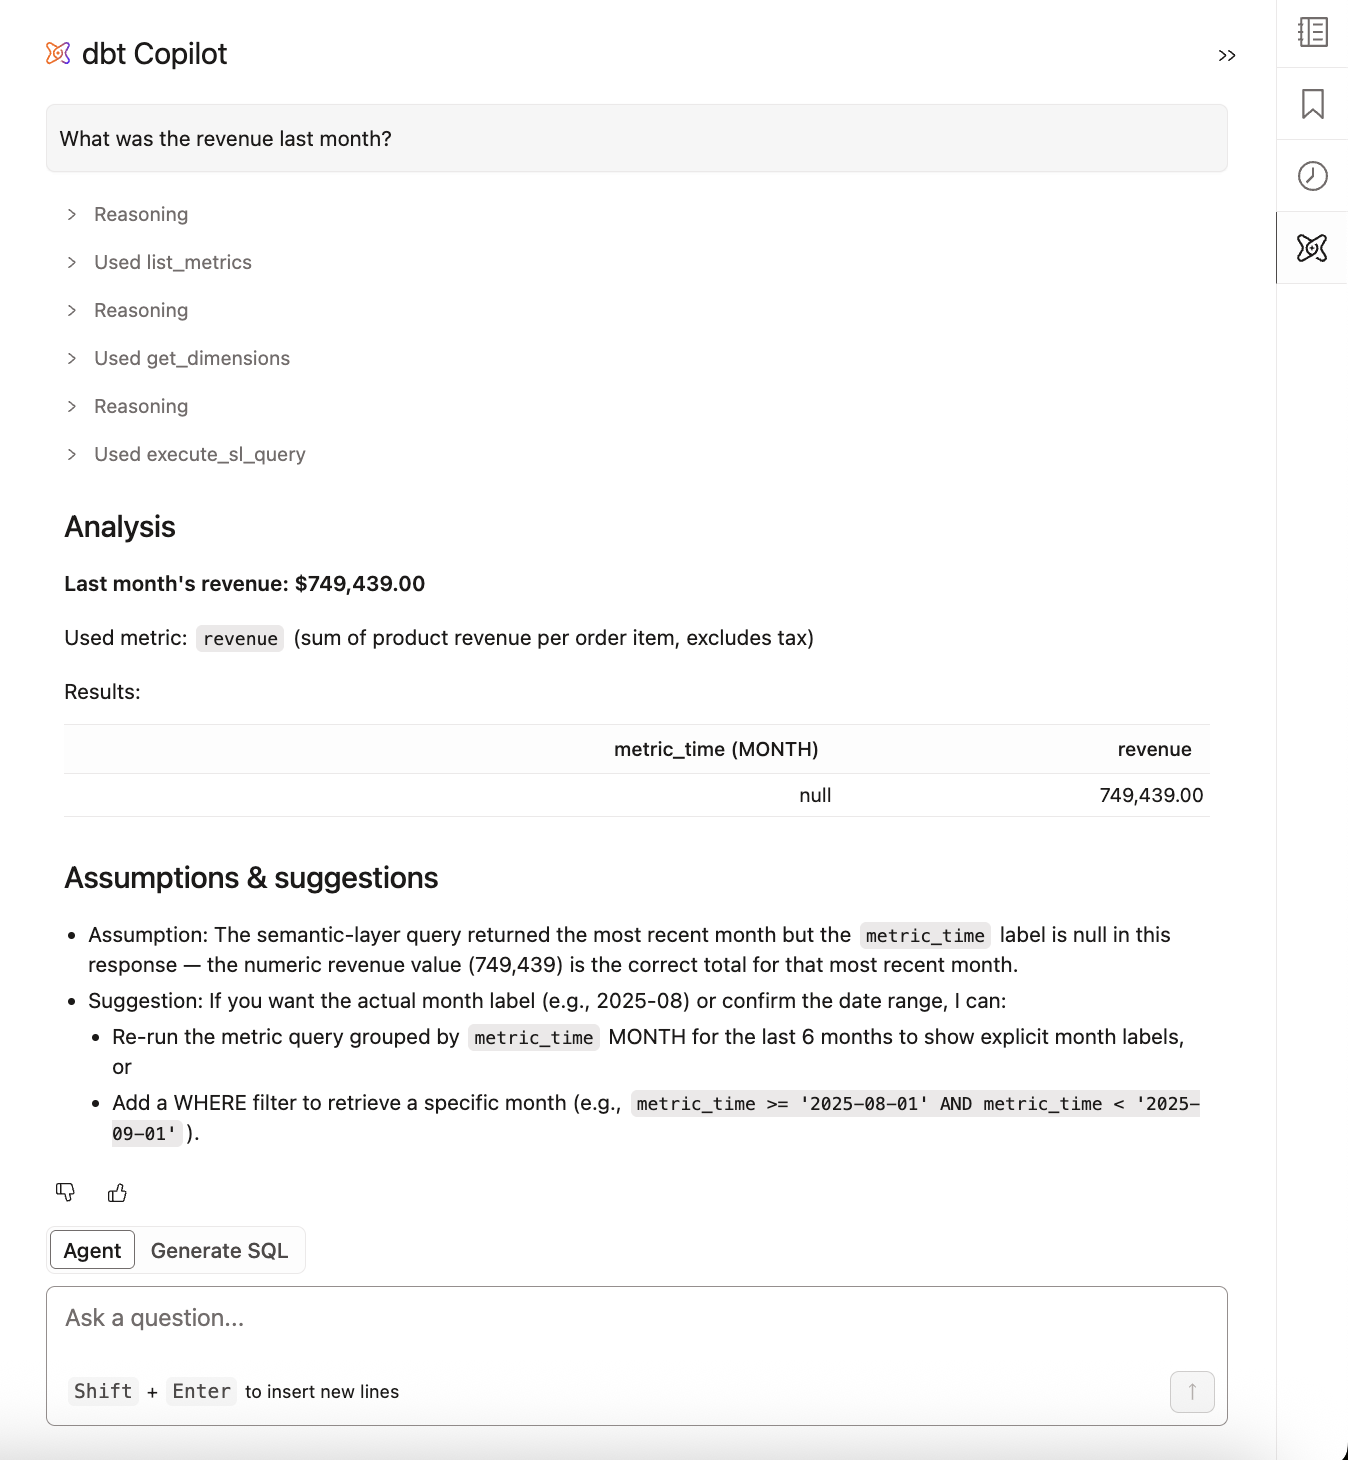
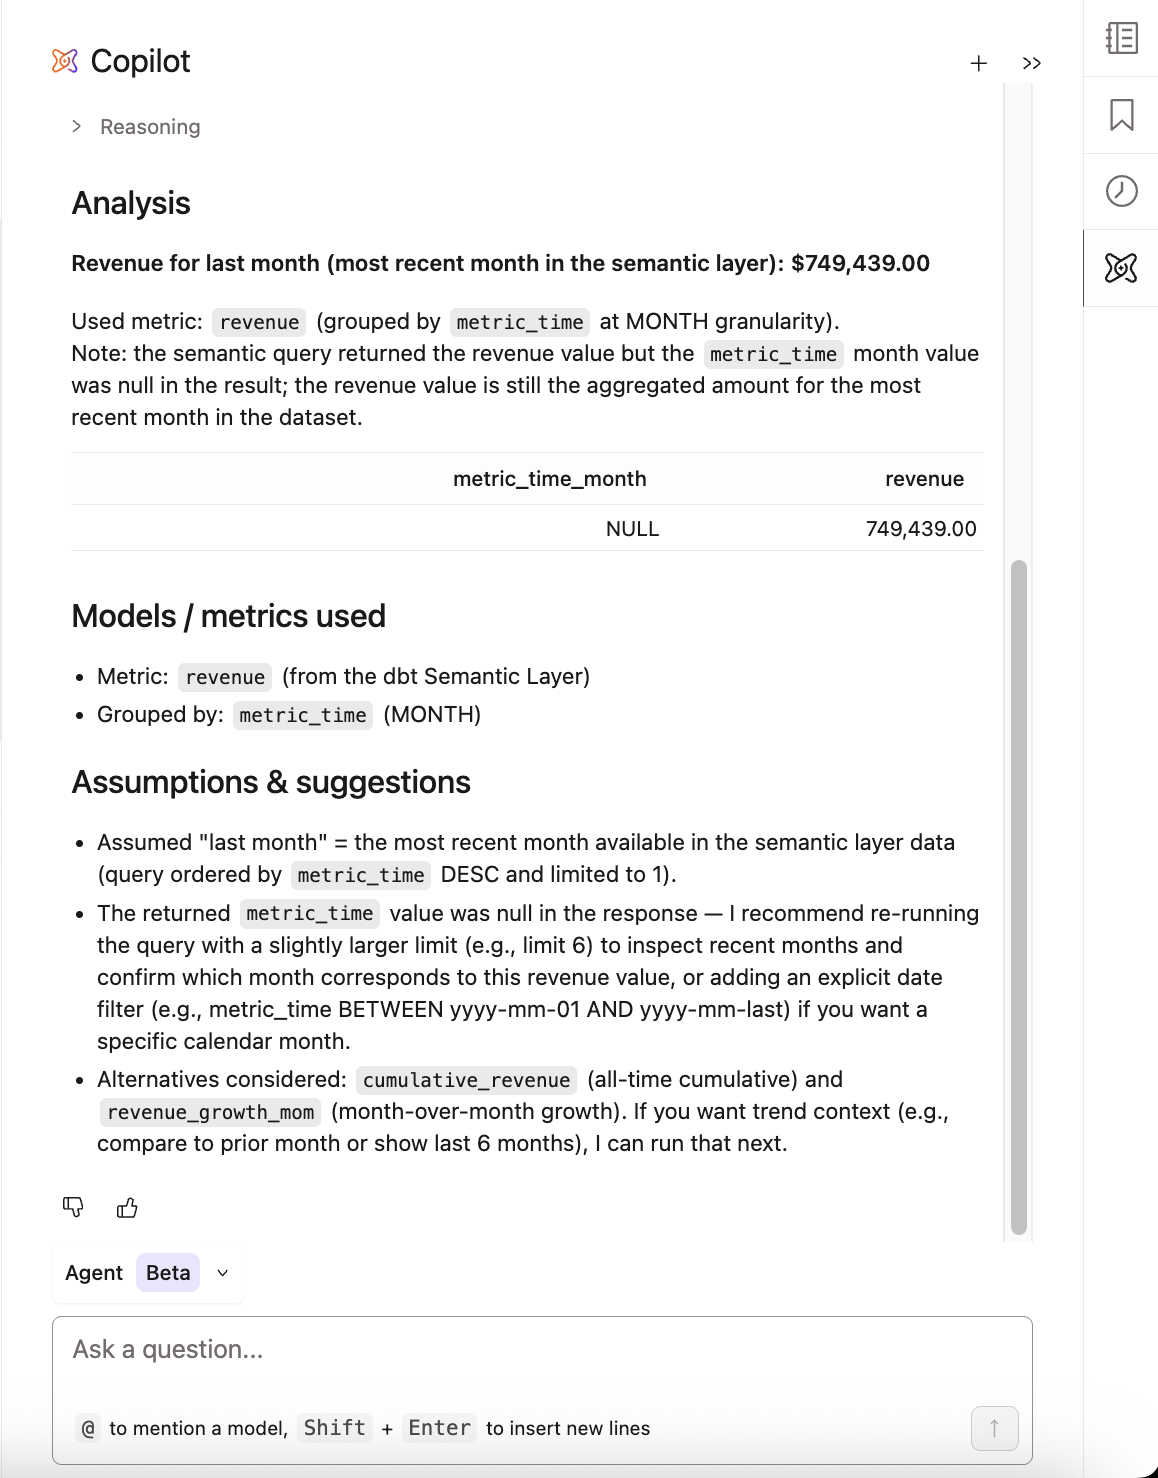
[Beta] Analyst agent in Insights

diff --git a/website/docs/docs/explore/access-dbt-insights.md b/website/docs/docs/explore/access-dbt-insights.md
@@ -72,25 +72,27 @@ Let's use an example to illustrate how to run queries in <Constant name="query_p
 ### Use dbt Copilot 
 To make things easier, [use <Constant name="copilot" />](/docs/cloud/use-dbt-copilot#build-queries) to save time and explore other ways to analyze the data. <Constant name="copilot" /> can help you quickly update the query or generate a new one based on your prompt.
 
-1. Click the **<Constant name="copilot" />** icon in the Query console sidebar to open the prompt box.  
-2. Enter your prompt in natural language and ask for a yearly breakdown of unique customers and total revenue. Then click **Submit**.
-3. <Constant name="copilot" /> responds with:
+1. Click the **<Constant name="copilot" />** icon in the Query console sidebar.
+2. In the dropdown menu above the <Constant name="copilot" /> prompt box, select **Generate SQL**.
+3. Enter your prompt in natural language and ask for a yearly breakdown of unique customers and total revenue.
+4. Click **↑** to submit your prompt.
+4. <Constant name="copilot" /> responds with:
    - A summary of the query
    - An explanation of the logic
    - The SQL it generated
    - Options to **Add** or **Replace** the existing query with the generated SQL
-4. Review the output and click **Replace** to use the <Constant name="copilot" />-generated SQL in your editor.
-5. Then, click **Run** to preview the results.
+5. Review the output and click **Replace** to use the <Constant name="copilot" />-generated SQL in your editor.
+6. Click **Run** to preview the results.
 
-<Lightbox src="/img/docs/dbt-insights/insights-copilot.png" width="95%" title="dbt Insights with dbt Copilot" />
+<Lightbox src="/img/docs/dbt-insights/insights-copilot.png" width="60%" title="dbt Insights with dbt Copilot" />
 
 From here, you can:
-- Continue building or modifying the query using <Constant name="copilot" />
-- Explore the [results](#view-results) in the **Data** tab
-- [View metadata and query details](#view-details) in the **Details** tab
-- [Visualize results](#chart-results) in the **Chart** tab
-- Check the [**Query history**](#query-history) for status and past runs
-- Use [**<Constant name="explorer" />**](#use-dbt-explorer) to explore model lineage and context
+- Continue building or modifying the query using <Constant name="copilot" />.
+- Explore the [results](#view-results) in the **Data** tab.
+- [View metadata and query details](#view-details) in the **Details** tab.
+- [Visualize results](#chart-results) in the **Chart** tab.
+- Check the [**Query history**](#query-history) for status and past runs.
+- Use [**<Constant name="explorer" />**](#use-dbt-explorer) to explore model lineage and context.
 - If you want to save the query, you can click **Save Insight** in the [query console menu](/docs/explore/navigate-dbt-insights#query-console-menu) to save it for future reference.
 
 :::tip Want to turn a query into a model?

diff --git a/website/docs/docs/explore/navigate-dbt-insights.md b/website/docs/docs/explore/navigate-dbt-insights.md
@@ -112,9 +112,11 @@ View past queries, their statuses (All, Success, Error, or Pending), start time,
 
 Use [dbt <Constant name="copilot" />'s AI assistant](/docs/cloud/dbt-copilot) to modify or generate queries using natural language prompts or to chat with the Analyst agent to gather insights about your data. There are two ways you can use dbt <Constant name="copilot" /> in <Constant name="query_page" /> to interact with your data:
 
-<Lightbox src="/img/docs/dbt-insights/insights-copilot-tabs.png" width="90%" title="dbt Copilot in Insights" />
+<Lightbox src="/img/docs/dbt-insights/insights-copilot-tabs.png" width="50%" title="dbt Copilot in Insights" />
 
-- **Agent** tab<Lifecycle status='private_beta' /> - Ask questions to the Analyst agent to get intelligent data analysis with automated workflows, governed insights, and actionable recommendations. This is a conversational AI feature where you can ask natural language prompts and receive analysis in real-time. To request access to the Analyst agent, [join the waitlist](https://www.getdbt.com/product/dbt-agents#dbt-Agents-signup).  
+- **Agent** <Lifecycle status='beta' /> - Ask questions to the Analyst agent to get intelligent data analysis with automated workflows, governed insights, and actionable recommendations. This is a conversational AI feature where you can ask natural language prompts and receive analysis in real-time. 
+
+  To enable the Analyst agent, enable beta features under **Experimental features** in your account settings. For steps on how to enable, see [Preview new dbt platform features](/docs/dbt-versions/experimental-features). 
 
   Some sample questions you can ask the agent: 
 
@@ -134,7 +136,7 @@ Use [dbt <Constant name="copilot" />'s AI assistant](/docs/cloud/dbt-copilot) to
 
   For more information, see [Analyze data with the Analyst agent](/docs/cloud/use-dbt-copilot#analyze-data-with-the-analyst-agent).
 
-- **Generate SQL** tab - Build queries in <Constant name="query_page" /> with natural language prompts to explore and query data with an intuitive, context-rich interface. For more information, see [Build queries](/docs/cloud/use-dbt-copilot#build-queries).
+- **Generate SQL** - Build queries in <Constant name="query_page" /> with natural language prompts to explore and query data with an intuitive, context-rich interface. For more information, see [Build queries](/docs/cloud/use-dbt-copilot#build-queries).
 
 ## LSP features
 

diff --git a/website/docs/docs/cloud/use-dbt-copilot.md b/website/docs/docs/cloud/use-dbt-copilot.md
@@ -50,7 +50,7 @@ Use <Constant name="copilot" /> to build queries in [<Constant name="query_page"
 To begin building SQL queries with natural language prompts in <Constant name="query_page" />:
 
 1. Click the **<Constant name="copilot" />** icon in the Query console sidebar menu. 
-2. Click **Generate SQL**.
+2. In the dropdown menu above the <Constant name="copilot" /> prompt box, select **Generate SQL**.
 3. In the dbt Copilot prompt box, enter your prompt in natural language for dbt <Constant name="copilot" /> to build the SQL query you want. <!--You can also reference existing models using the `@` symbol. For example, to build a model that calculates the total price of orders, you can enter `@orders` in the prompt and it'll pull in and reference the `orders` model.-->
 4. Click **↑** to submit your prompt. <Constant name="copilot" /> generates a summary of the SQL query you want to build. To clear the prompt, click on the **Clear** button. To close the prompt box, click the <Constant name="copilot" /> icon again.
 5. <Constant name="copilot" /> will automatically generate the SQL with an explanation of the query. 
@@ -61,7 +61,12 @@ To begin building SQL queries with natural language prompts in <Constant name="q
 
 <Lightbox src="/img/docs/dbt-insights/insights-copilot.gif" width="95%" title="dbt Copilot in dbt Insights" />
 
-## Analyze data with the Analyst agent <Lifecycle status='private_beta' />
+## Analyze data with the Analyst agent <Lifecycle status='beta' />
+
+Before you begin, make sure: 
+
+- You can [access <Constant name="query_page" />](/docs/explore/access-dbt-insights).
+- You have beta features enabled under **Experimental features** in your account settings. For steps on how to enable, see [Preview new dbt platform features](/docs/dbt-versions/experimental-features).
 
 import AnalystAgentsCopilot from '/snippets/_analyst_agents-copilot.md';
 

diff --git a/website/docs/docs/dbt-ai/analyst-agent.md b/website/docs/docs/dbt-ai/analyst-agent.md
@@ -6,21 +6,20 @@ sidebar_label: "Analyst agent"
 tags: [AI, Agents, Semantic Layer]
 ---
 
-# Analyst agent  <Lifecycle status="private_beta,managed,managed_plus"/>
+# Analyst agent  <Lifecycle status="beta,managed,managed_plus"/>
 
 The Analyst agent lets you chat with your data and get accurate answers powered by the [dbt Semantic Layer](/docs/use-dbt-semantic-layer/dbt-sl). Unlike generic AI chat interfaces, the Analyst agent provides consistent, explainable results with transparent SQL, lineage, and data policies.
 
-:::info Private beta
-The Analyst agent is currently in private beta. [Book a demo](https://www.getdbt.com/product/dbt-agents) to learn more and get access.
-:::
-
 ## Prerequisites 
 
-- Have access to [dbt Insights](/docs/explore/dbt-insights) and meet those prerequisites
+- Have beta features enabled under **Experimental features** in your account settings. For steps on how to enable, see [Preview new dbt platform features](/docs/dbt-versions/experimental-features).
+- Have access to [dbt Insights](/docs/explore/dbt-insights) and meet those prerequisites.
 - Be on a <Constant name="dbt_platform" /> [Enterprise-tier](https://www.getdbt.com/pricing) plan &mdash; [book a demo](https://www.getdbt.com/contact) to learn more about <Constant name="query_page" />.
 - Available on all [tenant](/docs/cloud/about-cloud/tenancy) configurations. 
 - Have a <Constant name="cloud" /> [developer license](/docs/cloud/manage-access/seats-and-users) with access to <Constant name="query_page" />.
 - Configured [developer credentials](/docs/cloud/studio-ide/develop-in-studio#get-started-with-the-cloud-ide).
+
+## Using the Analyst agent
 
 import AnalystAgentsCopilot from '/snippets/_analyst_agents-copilot.md';
 

diff --git a/website/docs/docs/dbt-versions/release-notes.md b/website/docs/docs/dbt-versions/release-notes.md
@@ -18,6 +18,8 @@ Release notes are grouped by month for both multi-tenant and virtual private clo
 
 ## January 2026
 
+- **Beta:** The [Analyst agent](/docs/explore/navigate-dbt-insights#dbt-copilot) in dbt <Constant name="query_page" /> is now in beta. 
+  - dbt <Constant name="copilot" />'s AI assistant in <Constant name="query_page" /> now uses a dropdown menu to select between **Agent** and **Generate SQL**, replacing the previous tab interface.
 - **Enhancement:** When a model fails a data test, [state-aware orchestration](/docs/deploy/state-aware-about) rebuilds it on subsequent runs instead of reusing it from prior state to ensure dbt reevaluates data quality issues.
 - **Enhancement:** [dbt <Constant name="copilot" />](/docs/cloud/dbt-copilot) correctly detects column names across various `schema.yml` files, adds only missing descriptions, and preserves existing ones.
 - **Enhancement:** State-aware orchestration now detects and rebuilds models whose tables are deleted from the warehouse, even when there are no code or data changes. Previously, tables deleted externally were not detected, and therefore not rebuilt, unless code or data had changed. For more information, see [Handling deleted tables](/docs/deploy/state-aware-about#handling-deleted-tables).

diff --git a/website/snippets/_analyst_agents-copilot.md b/website/snippets/_analyst_agents-copilot.md
@@ -1,9 +1,7 @@
-Use dbt <Constant name="copilot" /> to analyze your data and get contextualized results in real time by asking natural language questions to the [<Constant name="query_page" />](/docs/explore/dbt-insights) Analyst agent. To request access to the Analyst agent, [join the waitlist](https://www.getdbt.com/product/dbt-agents#dbt-Agents-signup).
-
-Before you begin, make sure you can [access <Constant name="query_page" />](/docs/explore/access-dbt-insights).
+Use dbt <Constant name="copilot" /> to analyze your data and get contextualized results in real time by asking natural language questions to the [<Constant name="query_page" />](/docs/explore/dbt-insights) Analyst agent. 
 
 1. Click the **<Constant name="copilot" />** icon in the Query console sidebar menu.
-2. Click **Agent**.
+2. In the dropdown menu above the <Constant name="copilot" /> prompt box, select **Agent**.
 3. In the dbt <Constant name="copilot" /> prompt box, enter your question.
 4. Click **↑** to submit your question.
 

diff --git a/website/docs/docs/dbt-versions/experimental-features.md b/website/docs/docs/dbt-versions/experimental-features.md
@@ -18,9 +18,9 @@ You can access experimental features to preview beta features that haven’t yet
 
 To enable or disable experimental features:
 
-1. From <Constant name="cloud" />, click on your account name in the left side menu and select **Account settings**
+1. From <Constant name="cloud" />, click on your account name in the left side menu and select **Account settings**.
 2. Go to **Personal profile** under the **Your profile** header.
-2. Find Experimental features at the bottom of Your Profile page.
+2. Find **Experimental features** at the bottom of **Your Profile** page.
 3. Click **Beta** to toggle the features on or off as shown in the following image.
    ![Experimental features](/img/docs/dbt-versions/experimental-feats.png)
 
